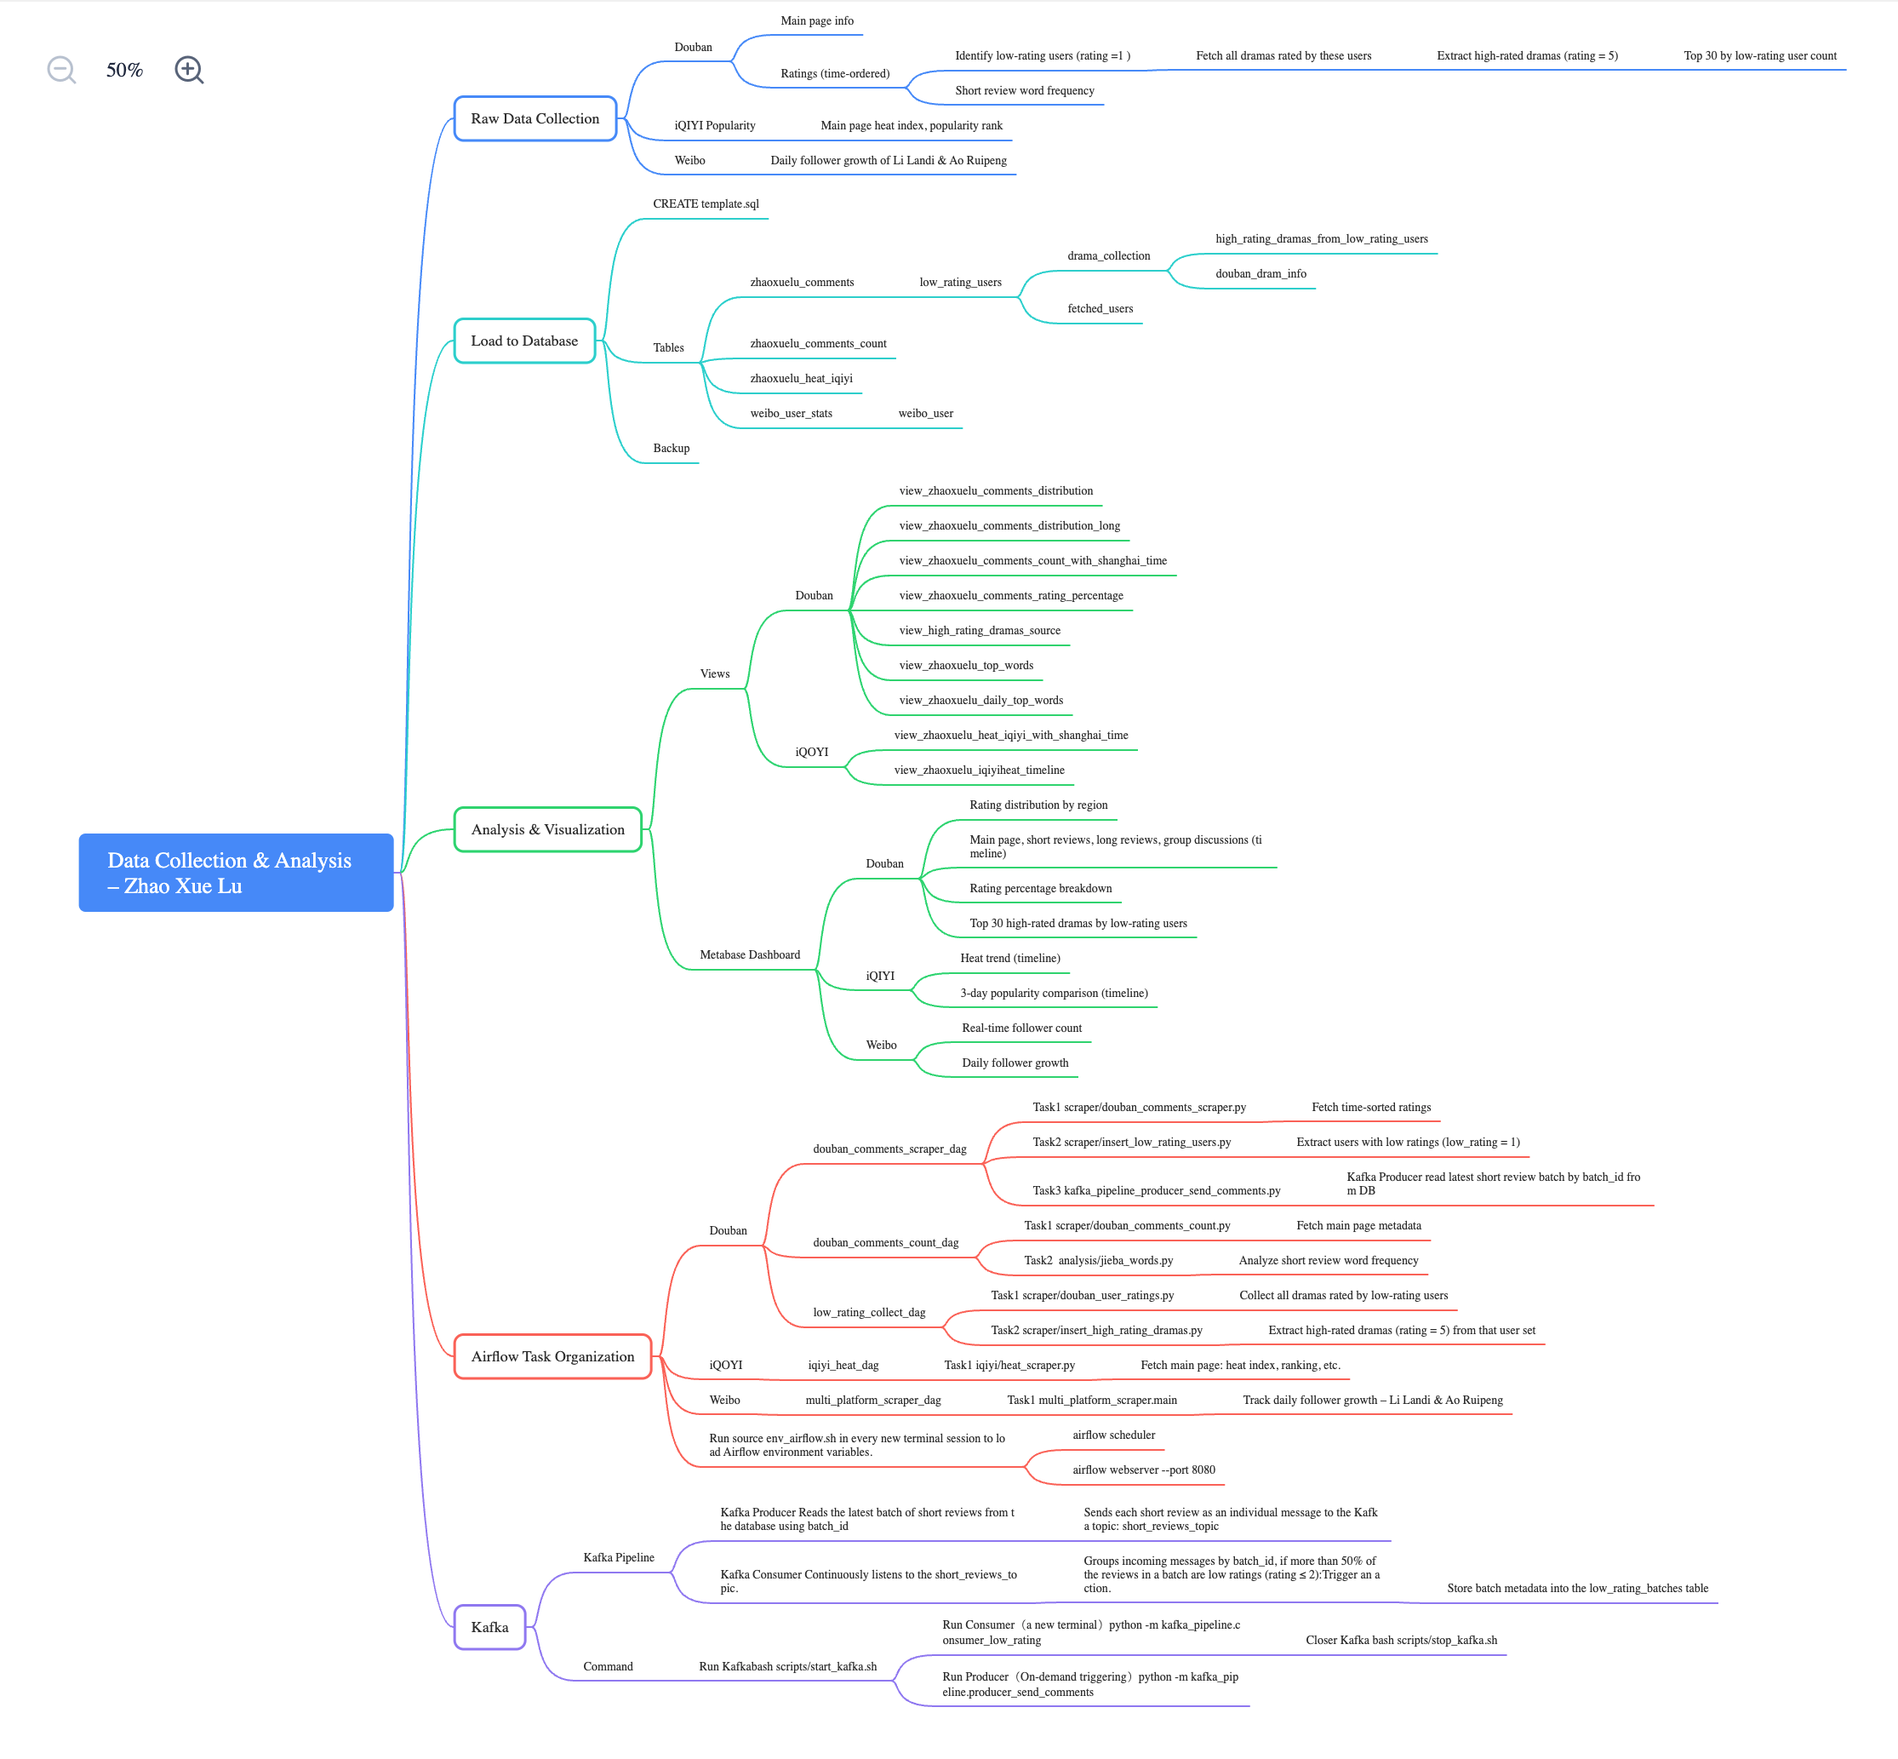
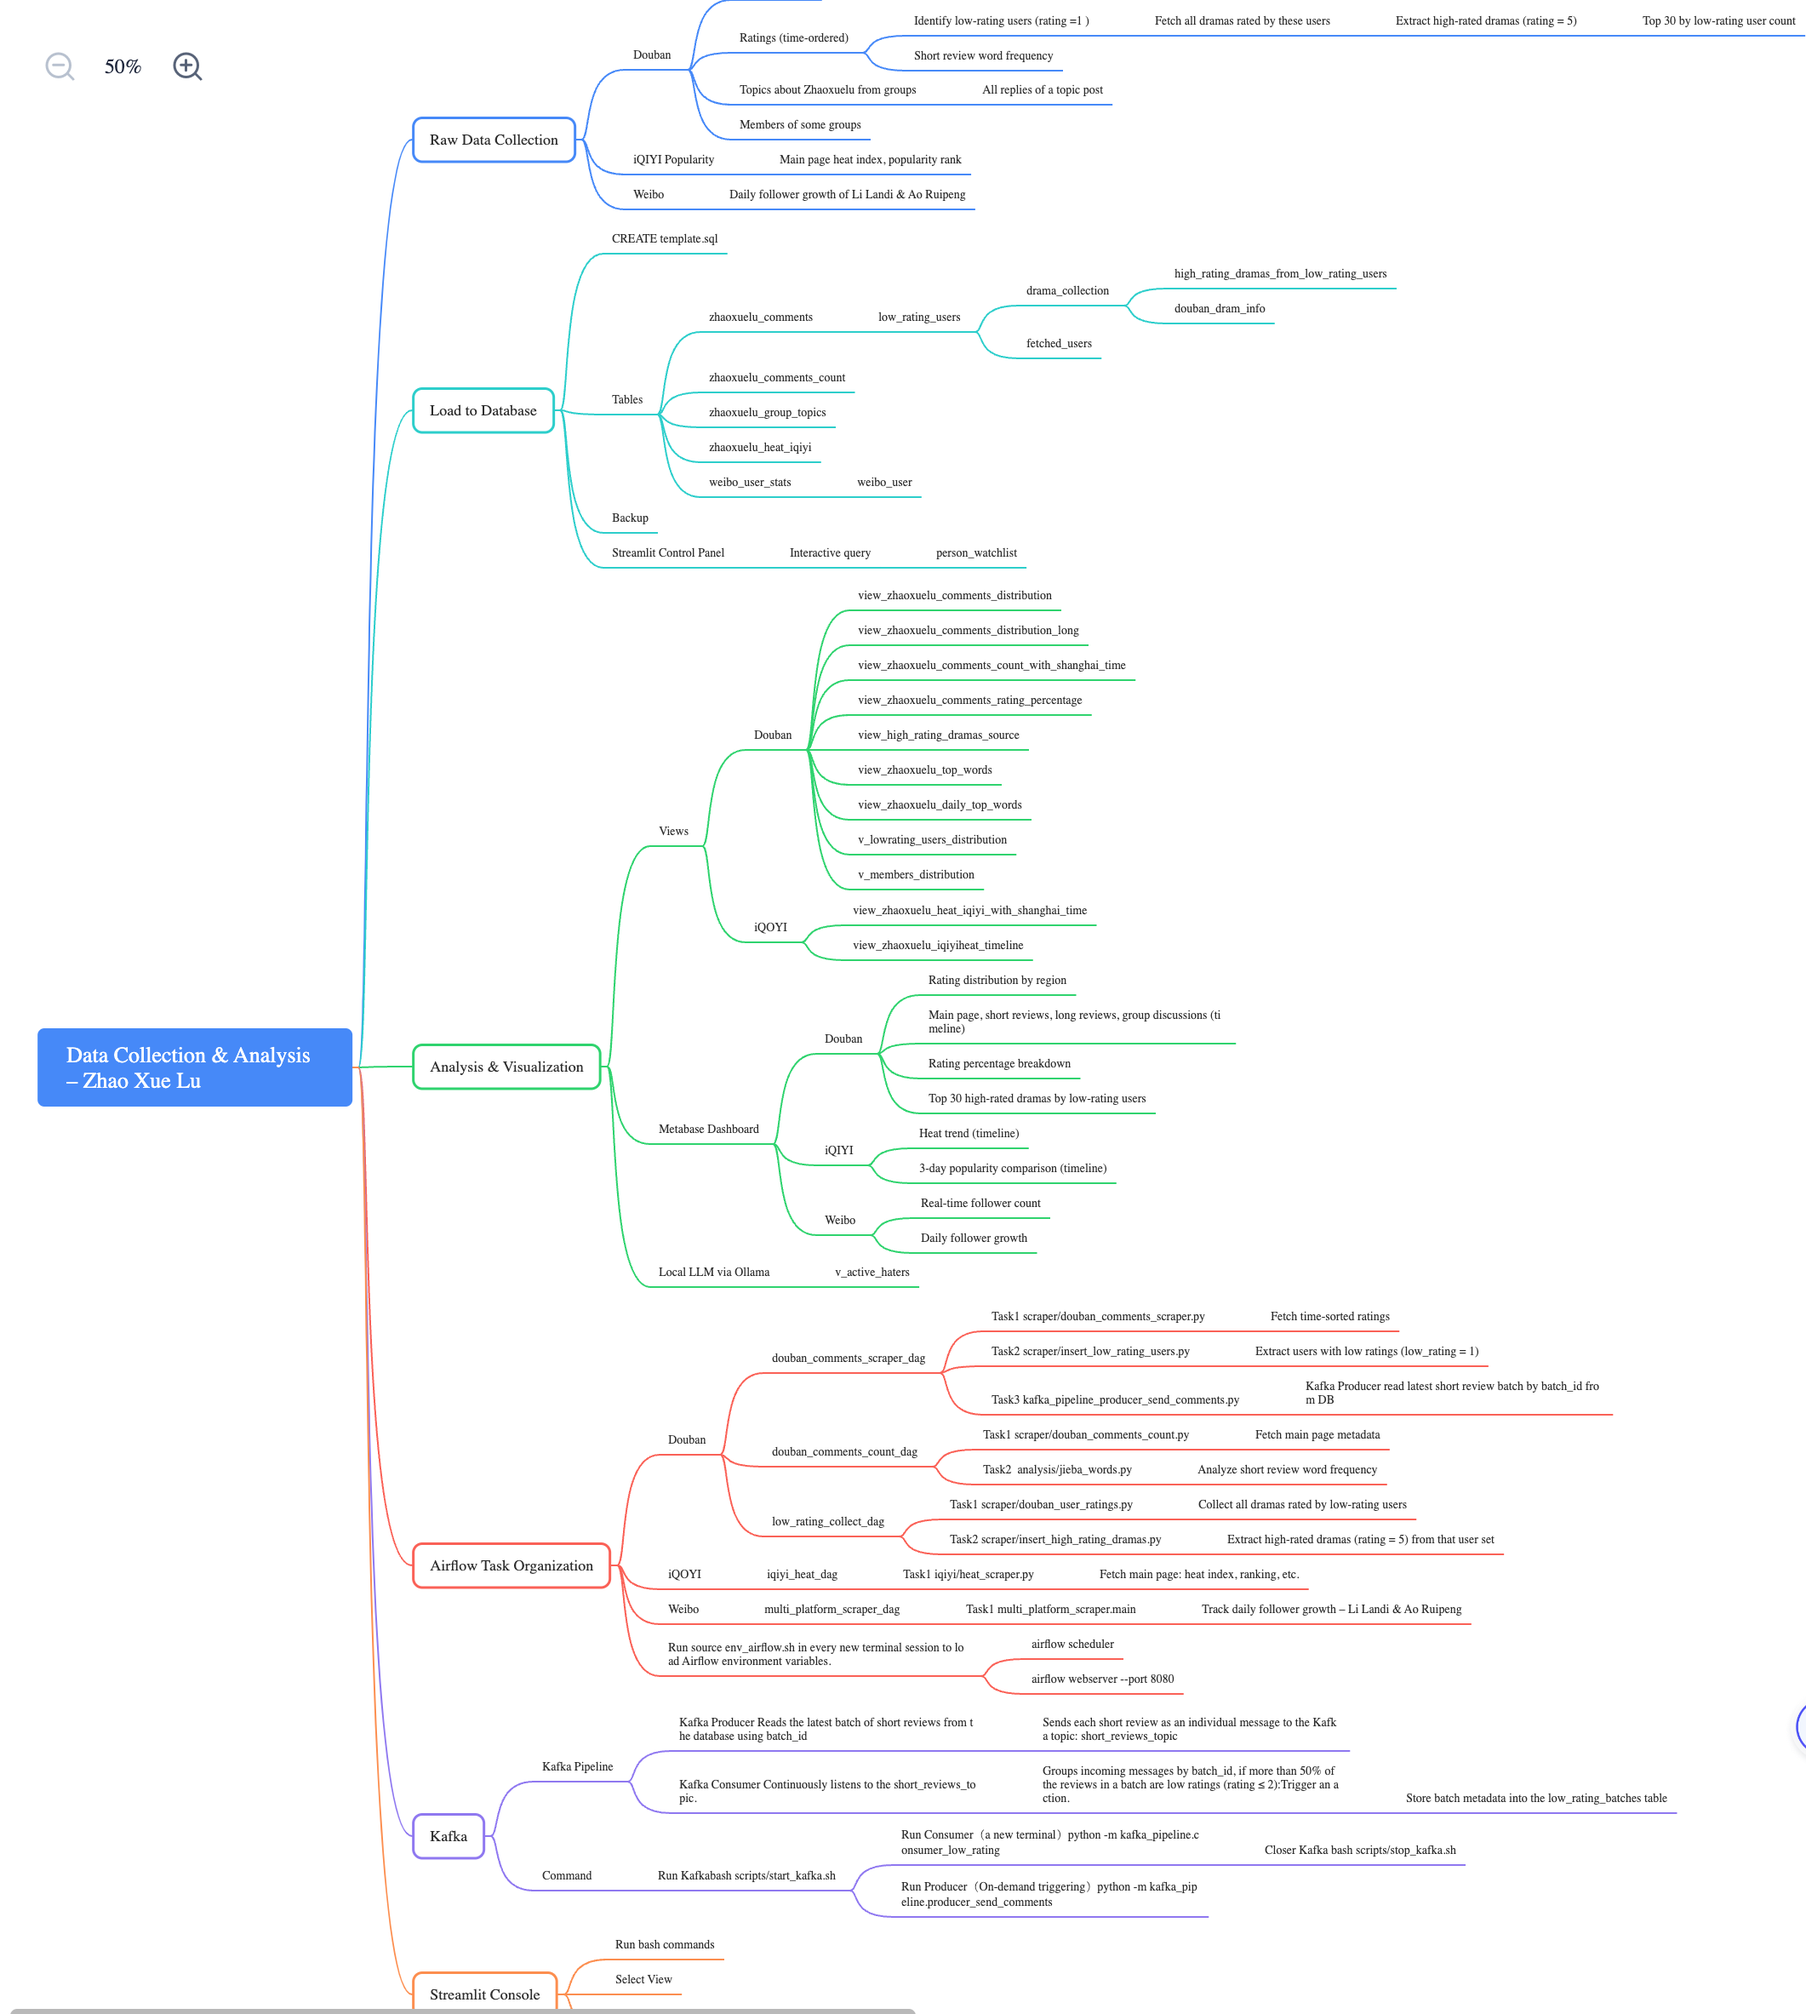
modify readme

diff --git a/streamlit_console/pages/4_Logs.py b/streamlit_console/pages/4_Logs.py
@@ -1,0 +1,5 @@
+import streamlit as st
+
+st.title("📜 Logs")
+
+st.info("下一步：把 Run 的结果写入一个 run_history 表（或本地 sqlite），这里做列表+详情。")

diff --git a/README.md b/README.md
@@ -1,35 +1,51 @@
 # ❄ Drama Comment Tracking and Analysis Project #
 
-This project aims to continuously scrape the latest short comments and user information for the Chinese drama from Douban, store them in a local PostgreSQL database, and later analyze user rating behavior to detect astroturfing activities, build fan profiles, and track public opinion trends.
+This project continuously scrapes the latest short comments and user information for a Chinese drama from Douban, stores them in a local PostgreSQL database, and applies AI-powered analysis to detect astroturfing activities, build fan behavior profiles, and track public opinion trends in real time.
 
-### 🎯 Project Objectives ###
-⏱ High-frequency scraping: Scrape the latest Douban short comments every hour starting from the show's release date
-👤 User profiling: Record user IDs and fetch their historical rating activity
-🕵♀ Astroturfing detection: Analyze patterns in ratings, comment timing, and text to identify fake or coordinated accounts
-📊 Trend analysis: Visualize public opinion dynamics, sentiment shifts, and topic heat over time
+### 🎯 Why This Project Matters ###
+Online rating platforms are vulnerable to coordinated manipulation campaigns.
+This project explores how to detect structured narrative amplification using:
+* Semantic modeling (LLM)
+* Community network analysis
+* Temporal anomaly detection
+* Behavioral clustering
+It demonstrates end-to-end data engineering + AI integration in a real-world social signal problem.
 
-### 🧪 Current Features ###
-#### ⏱ Automated Hourly Scraping ####
-Automatically scrapes the latest short comments from Douban every hour using a scheduled task.
-#### 💬 Comment & User Data Extraction ####
-Collects key fields including comment content, user ID, comment timestamp, and number of likes.
+### 🚀 Project Objectives ###
+#### ⏱ High-frequency scraping: ####
+Continuously scrape the latest Douban short comments every hour starting from the show’s release date. In addition, perform keyword-based topic discovery and crawl full threads (original posts + all replies) to capture complete discussion structures.
+#### 👤 User profiling: ####
+Track user IDs and reconstruct their historical rating timelines to build behavioral fingerprints. Users are further mapped to their Douban group memberships to analyze community affiliation and cross-group interaction patterns.
+#### 🕵♀ Astroturfing detection: ####
+Detect coordinated rating and comment manipulation by integrating temporal burst analysis, behavioral consistency modeling, and LLM-based semantic stance classification. Group affiliation bias is incorporated to assess whether collective negativity reflects organic disagreement or structured narrative amplification.
+#### 📊 Trend analysis: ####
+Model public opinion dynamics over time, including rating waves, sentiment shifts, and discussion heat evolution. Identify structural changes in narrative direction and cross-community polarization.
+#### 🤖 AI-powered comment classification: ####
+Use a locally hosted LLM pipeline to classify stance, sentiment polarity, sarcasm, and rebuttal behavior in structured JSON format. This semantic layer enables higher-level narrative and coordination analysis beyond keyword filtering.
+#### 🖥 Interactive analytics console: ####
+Provide a unified Streamlit-based control panel to execute scraping, AI analysis, and streaming pipelines. The console also enables parameterized SQL querying and interactive exploration of analytical database views.
 
-### 🗃 Data Storage in PostgreSQL ###
-All collected data is saved into a structured PostgreSQL database for further analysis.
-#### 🔍 User Rating Behavior Tracking (in development) ####
-Fetches historical rating records of commenting users to build detailed user profiles.
-#### 🕵♂ Astroturfing Detection & Analysis (in development) ####
-Uses temporal patterns, user activity, and comment sentiment to identify potential spam or coordinated behavior (a.k.a. "water army").
-
+### 🧠 Key Technical Highlights ###
+* Local LLM integration with structured JSON output
+* Batch + streaming hybrid architecture
+* Kafka-based low-rating burst detection
+* Behavioral modeling across communities
+* Layered data architecture (Bronze → Silver → Gold)
+* Operational control console (Streamlit)
 
 ### 🧱 Tech Stack ###
-* Python – Core scraping and data logic (with requests, BeautifulSoup, pandas)
-* PostgreSQL – Relational database for structured storage
-* Airflow (planned) – For hourly task scheduling and monitoring
-* Jupyter Notebook – Used for exploratory data analysis and prototyping
-* Metabase – For dashboard creation and visualizations locally
-* Kafka - Real-time streaming of short reviews; enables batch-wise low-rating detection and trigger actions.
-    |
+| Layer         | Technology                       |
+| ------------- | -------------------------------- |
+| Scraping      | Python (requests, BeautifulSoup) |
+| Storage       | PostgreSQL 16                    |
+| AI            | Local LLM via Ollama             |
+| Streaming     | Kafka                            |
+| Scheduling    | Airflow                          |
+| Visualization | Metabase                         |
+| Control Panel | Streamlit                        |
+| Analysis      | Pandas, SQL, Jupyter             |
+----------------------------------------------------
+
 
 ## Project Scripts & Command Reference
 This README provides a structured overview of key scripts and commands used in the project, including environment setup, Airflow, Docker, and Kafka pipeline operations.
@@ -49,6 +65,8 @@ This README provides a structured overview of key scripts and commands used in t
 | Kafka Start       | `docker-compose up -d`                                       | Start Kafka and Zookeeper services via Docker                               | `cd kafka_docker && docker-compose up -d`      |
 | Kafka Stop        | `bash scripts/stop_kafka.sh`                                 | Stop all Kafka and Zookeeper containers                                     | —                                              |
 | Kafka Quick Start | `bash scripts/start_kafka.sh`                                | Shortcut to start all Kafka services                                        | Recommended startup method                     |
+| Steamlit Start    | `streamlit run streamlit_console/app.py`                     | Start a streamlit app                                                       | Open browser: `http://localhost:8501`
+|
 
 ## Mind Map
 
@@ -62,7 +80,7 @@ This README provides a structured overview of key scripts and commands used in t
 ![](/images/5rating_dramas.gif)
 
 
-## Disclaimer
+## 🛡 Disclaimer
 
 This project is intended **for educational and research purposes only**.  
 The code is provided "as is" without any guarantees or warranties.
